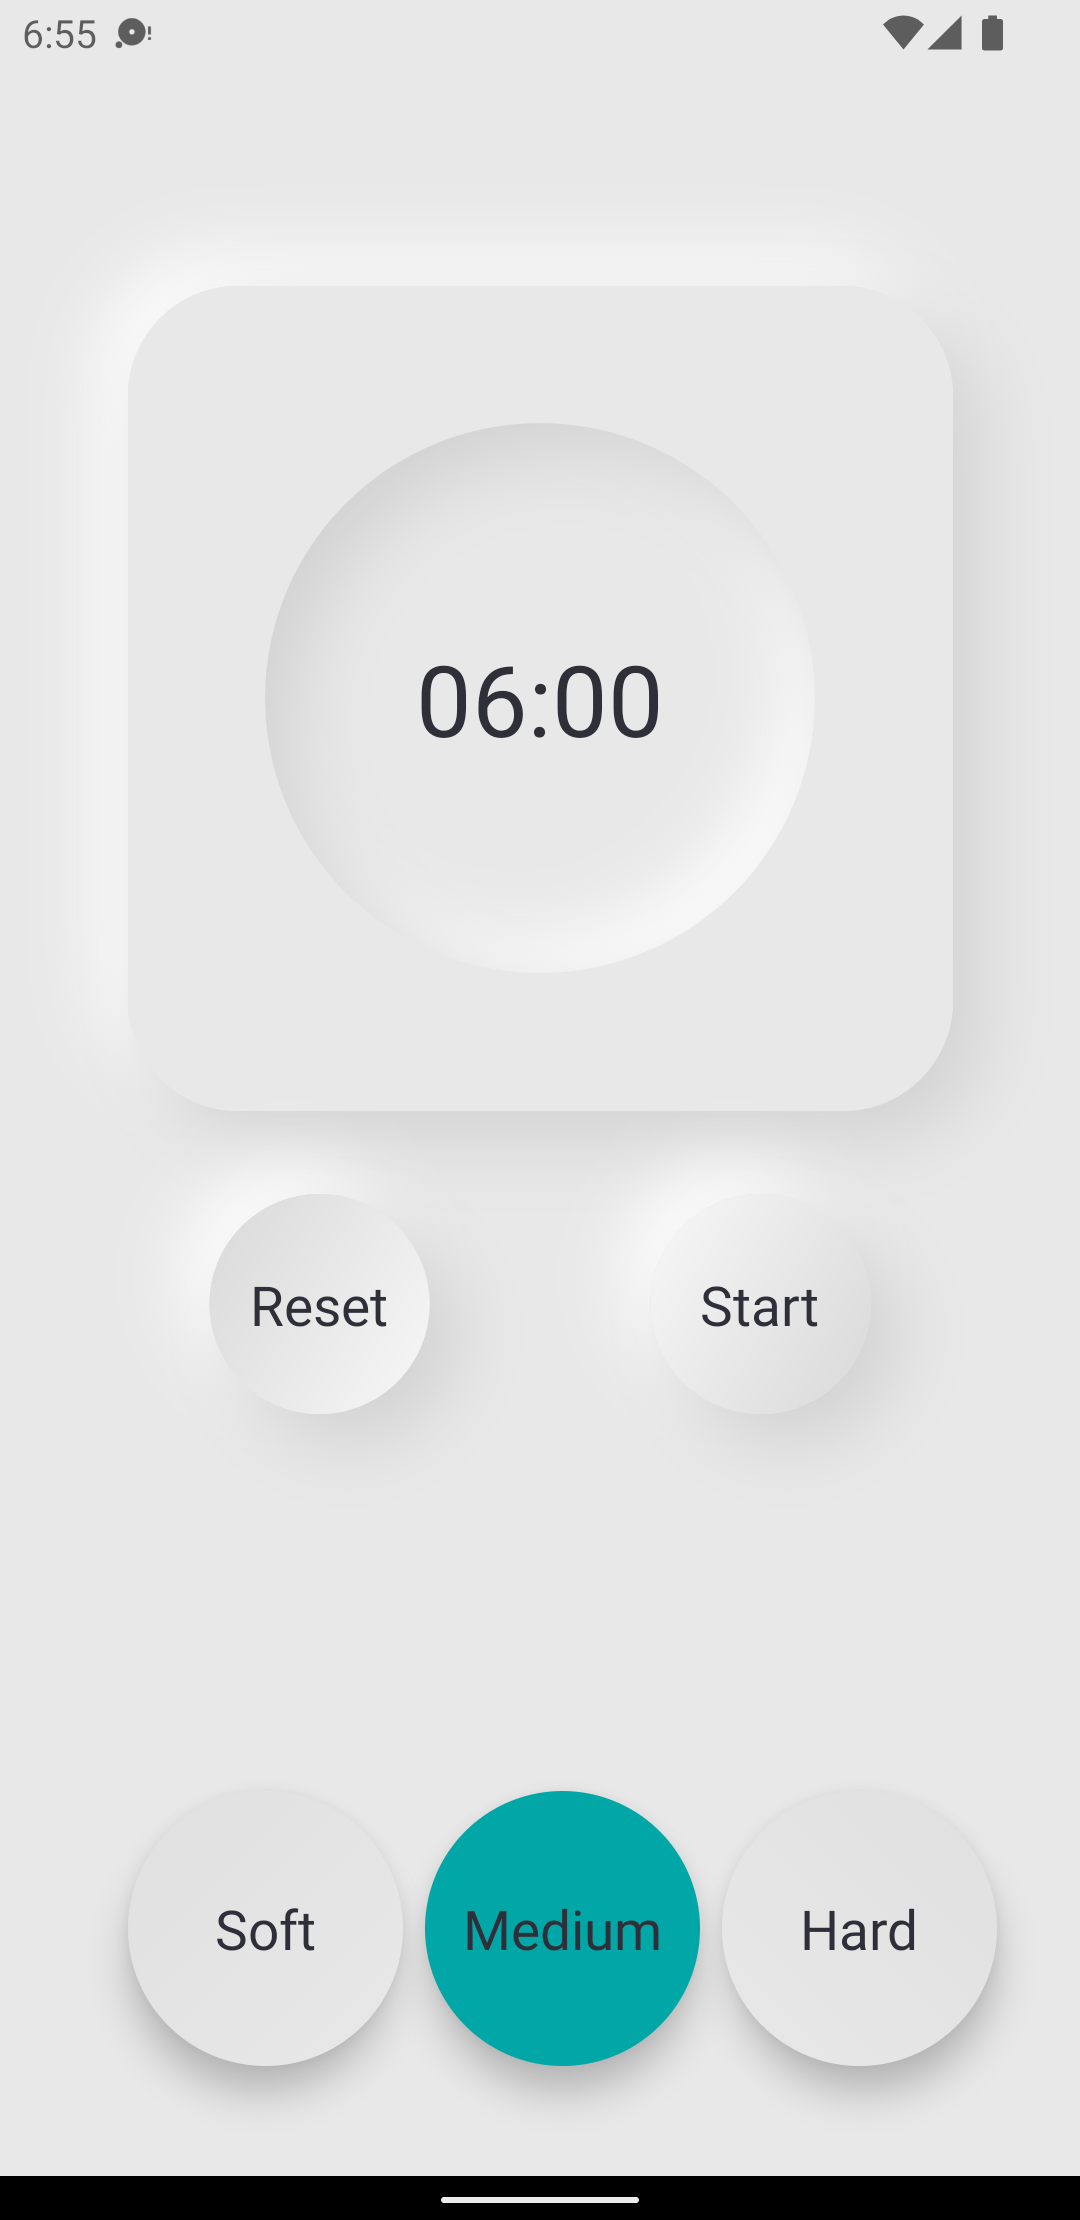
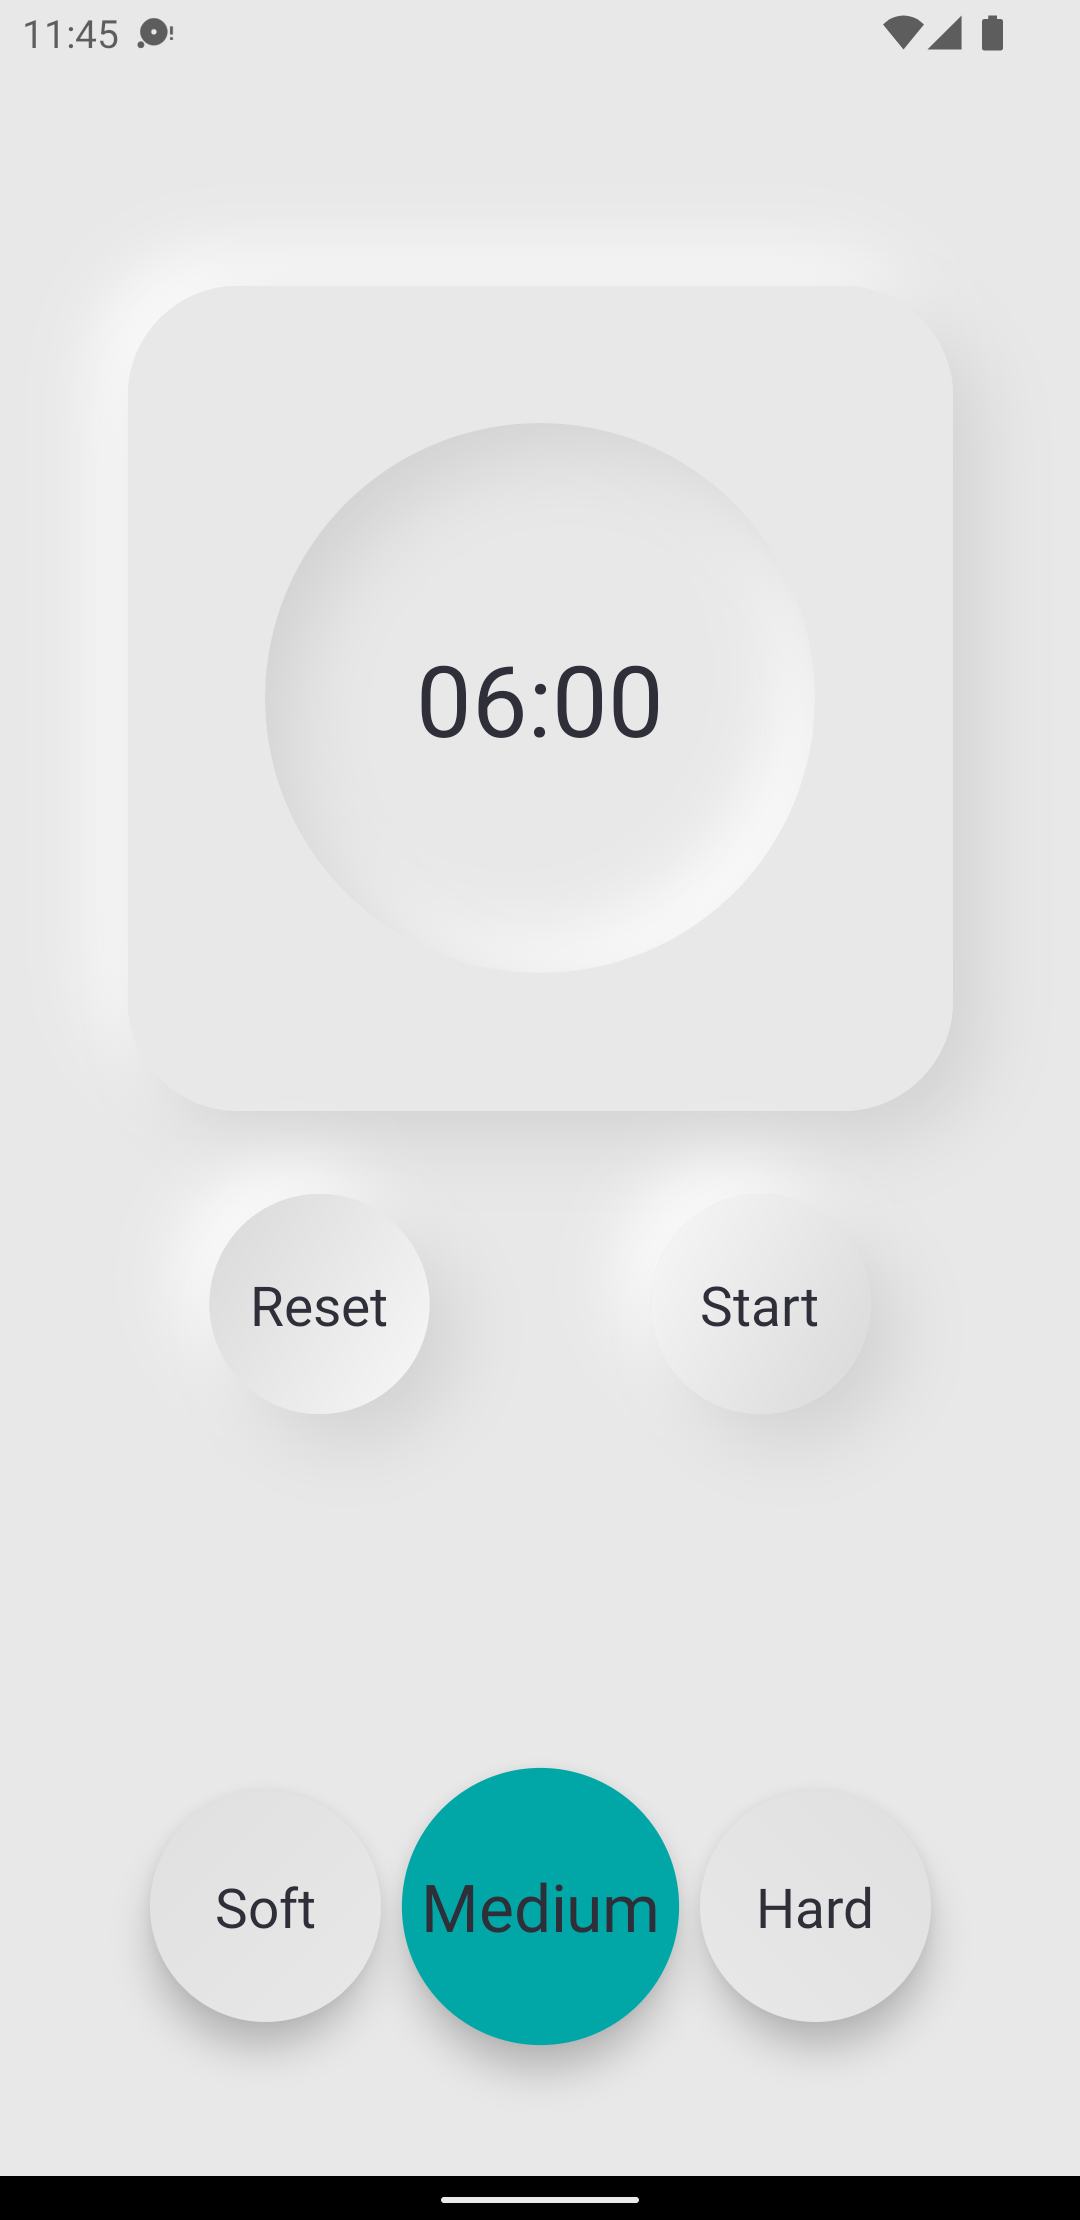
Add animation for radio buttons

diff --git a/app/src/main/java/com/tarikyasar/eggtimer/MainActivity.kt b/app/src/main/java/com/tarikyasar/eggtimer/MainActivity.kt
@@ -1,14 +1,18 @@
 package com.tarikyasar.eggtimer
 
+import android.annotation.SuppressLint
 import android.app.AlertDialog
 import android.media.MediaPlayer
-import androidx.appcompat.app.AppCompatActivity
 import android.os.Bundle
 import android.os.CountDownTimer
+import android.view.MotionEvent
+import android.view.animation.Animation
+import android.view.animation.AnimationUtils
+import androidx.appcompat.app.AppCompatActivity
 import com.borutsky.neumorphism.NeumorphicFrameLayout
 import com.tarikyasar.eggtimer.databinding.ActivityMainBinding
+import com.tarikyasar.eggtimer.utils.Constants
 import com.tarikyasar.eggtimer.utils.TimeUtils
-import java.text.SimpleDateFormat
 
 class MainActivity : AppCompatActivity() {
 
@@ -23,12 +27,40 @@ class MainActivity : AppCompatActivity() {
     private lateinit var timer: CountDownTimer
     private lateinit var mediaPlayer: MediaPlayer
 
+    // First one is previously selected radio button
+    // Second one is currently selected radio button
+    private var radioButtonStates =
+        mutableListOf(R.id.radioButtonMediumCooked, R.id.radioButtonMediumCooked)
+
+    // Animations
+    private var scaleAnimationsStartButton = mutableListOf<Animation>()
+    private var scaleAnimationsStopButton = mutableListOf<Animation>()
+    private lateinit var scaleUpRadioButton: Animation
+    private lateinit var scaleDownRadioButton: Animation
+
+    @SuppressLint("ClickableViewAccessibility")
     override fun onCreate(savedInstanceState: Bundle?) {
         super.onCreate(savedInstanceState)
         binding = ActivityMainBinding.inflate(layoutInflater)
         setContentView(binding.root)
+
+        // Initialize media player
         mediaPlayer = MediaPlayer.create(this@MainActivity, R.raw.alarm_sound)
         mediaPlayer.isLooping = true
+
+        // Initialize animations
+        scaleAnimationsStartButton = mutableListOf(
+            AnimationUtils.loadAnimation(this, R.anim.scale_up),
+            AnimationUtils.loadAnimation(this, R.anim.scale_down)
+        )
+        scaleAnimationsStopButton = mutableListOf(
+            AnimationUtils.loadAnimation(this, R.anim.scale_up),
+            AnimationUtils.loadAnimation(this, R.anim.scale_down)
+        )
+        scaleUpRadioButton = AnimationUtils.loadAnimation(this, R.anim.scale_up)
+        scaleDownRadioButton = AnimationUtils.loadAnimation(this, R.anim.scale_down)
+
+        binding.radioButtonMediumCooked.startAnimation(scaleUpRadioButton)
 
         // Create custom alert dialog
         val builder = AlertDialog.Builder(
@@ -44,50 +76,102 @@ class MainActivity : AppCompatActivity() {
         }
         builder.setCanceledOnTouchOutside(false)
 
-        binding.buttonStart.setOnClickListener {
+        binding.buttonStart.setOnTouchListener { _, event ->
             if (timerState != TimerStates.STARTED) {
-                timer = object : CountDownTimer(cookTime * 60000, 1000) {
-                    override fun onTick(millisUntilFinished: Long) {
-                        binding.tvTimer.text = TimeUtils.formatTime(millisUntilFinished)
+                if (event?.action == MotionEvent.ACTION_UP) {
+                    binding.buttonStart.startAnimation(scaleAnimationsStartButton[1])
+
+                    timer = object : CountDownTimer(cookTime * Constants.DEFAULT_TIME, 1000) {
+                        override fun onTick(millisUntilFinished: Long) {
+                            binding.tvTimer.text = TimeUtils.formatTime(millisUntilFinished)
+                        }
+
+                        override fun onFinish() {
+                            builder.show()
+                            mediaPlayer.start()
+                        }
                     }
 
-                    override fun onFinish() {
-                        builder.show()
-                        mediaPlayer.start()
-                    }
+                    timer.start()
+                    timerState = TimerStates.STARTED
+                    binding.radioGroupEggCookType.isActivated = false
+                    binding.buttonStart.state = NeumorphicFrameLayout.State.CONCAVE
+                    binding.buttonStop.state = NeumorphicFrameLayout.State.CONVEX
+
+                } else if (event?.action == MotionEvent.ACTION_DOWN) {
+                    binding.buttonStart.startAnimation(scaleAnimationsStartButton[0])
                 }
 
-                timer.start()
-                timerState = TimerStates.STARTED
-                binding.radioGroupEggCookType.isActivated = false
-                binding.buttonStart.state = NeumorphicFrameLayout.State.CONCAVE
-                binding.buttonStop.state = NeumorphicFrameLayout.State.CONVEX
-            }
+                true
+            } else false
         }
 
-        binding.buttonStop.setOnClickListener {
-            if (this::timer.isInitialized && timerState != TimerStates.STOPPED) {
-                resetTimer()
-            }
+        binding.buttonStop.setOnTouchListener { _, event ->
+            if (this@MainActivity::timer.isInitialized && timerState != TimerStates.STOPPED) {
+                if (event?.action == MotionEvent.ACTION_UP) {
+                    binding.buttonStop.startAnimation(scaleAnimationsStopButton[1])
+
+                    resetTimer()
+                } else if (event?.action == MotionEvent.ACTION_DOWN) {
+                    binding.buttonStop.startAnimation(scaleAnimationsStopButton[0])
+                }
+
+                true
+            } else false
+
         }
 
         binding.radioGroupEggCookType.setOnCheckedChangeListener { _, checkedId ->
+            radioButtonStates[0] = radioButtonStates[1]
+            radioButtonStates[1] = checkedId
+
+            updateRadioButtonAnimations(radioButtonStates)
+
             when (checkedId) {
                 R.id.radioButtonSoftCooked -> {
                     cookTime = eggMap[EggCookTypes.SOFT_BOILED]!!
-                    binding.tvTimer.text = TimeUtils.formatTime(cookTime * 60000)
+                    binding.tvTimer.text = TimeUtils.formatTime(cookTime * Constants.DEFAULT_TIME)
                 }
                 R.id.radioButtonMediumCooked -> {
                     cookTime = eggMap[EggCookTypes.MEDIUM_BOILED]!!
-                    binding.tvTimer.text = TimeUtils.formatTime(cookTime * 60000)
+                    binding.tvTimer.text = TimeUtils.formatTime(cookTime * Constants.DEFAULT_TIME)
+
                 }
                 R.id.radioButtonHardCooked -> {
                     cookTime = eggMap[EggCookTypes.HARD_BOILED]!!
-                    binding.tvTimer.text = TimeUtils.formatTime(cookTime * 60000)
+                    binding.tvTimer.text = TimeUtils.formatTime(cookTime * Constants.DEFAULT_TIME)
                 }
             }
 
             resetTimer()
+        }
+    }
+
+    private fun updateRadioButtonAnimations(
+        radioButtonStates: List<Int>
+    ) {
+        when (radioButtonStates[0]) {
+            R.id.radioButtonSoftCooked -> binding.radioButtonSoftCooked.startAnimation(
+                scaleDownRadioButton
+            )
+            R.id.radioButtonMediumCooked -> binding.radioButtonMediumCooked.startAnimation(
+                scaleDownRadioButton
+            )
+            R.id.radioButtonHardCooked -> binding.radioButtonHardCooked.startAnimation(
+                scaleDownRadioButton
+            )
+        }
+
+        when (radioButtonStates[1]) {
+            R.id.radioButtonSoftCooked -> binding.radioButtonSoftCooked.startAnimation(
+                scaleUpRadioButton
+            )
+            R.id.radioButtonMediumCooked -> binding.radioButtonMediumCooked.startAnimation(
+                scaleUpRadioButton
+            )
+            R.id.radioButtonHardCooked -> binding.radioButtonHardCooked.startAnimation(
+                scaleUpRadioButton
+            )
         }
     }
 
@@ -97,7 +181,7 @@ class MainActivity : AppCompatActivity() {
             timerState = TimerStates.STOPPED
             binding.buttonStop.state = NeumorphicFrameLayout.State.CONCAVE
             binding.buttonStart.state = NeumorphicFrameLayout.State.CONVEX
-            binding.tvTimer.text = TimeUtils.formatTime(cookTime * 60000)
+            binding.tvTimer.text = TimeUtils.formatTime(cookTime * Constants.DEFAULT_TIME)
         }
     }
 }

diff --git a/app/src/main/java/com/tarikyasar/eggtimer/utils/Constants.kt b/app/src/main/java/com/tarikyasar/eggtimer/utils/Constants.kt
@@ -1,0 +1,5 @@
+package com.tarikyasar.eggtimer.utils
+
+object Constants {
+    val DEFAULT_TIME = 60000
+}
